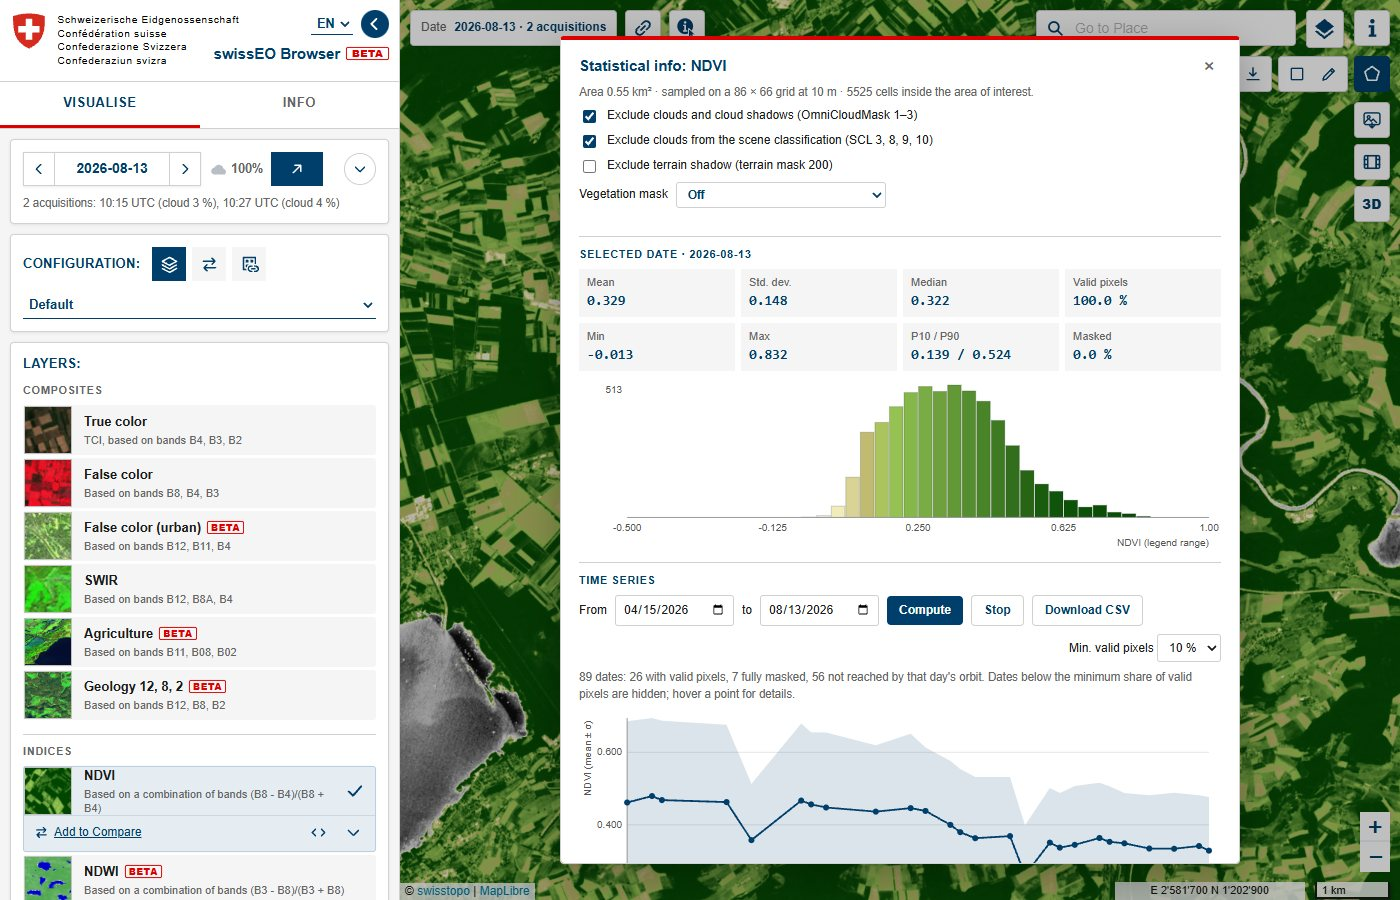
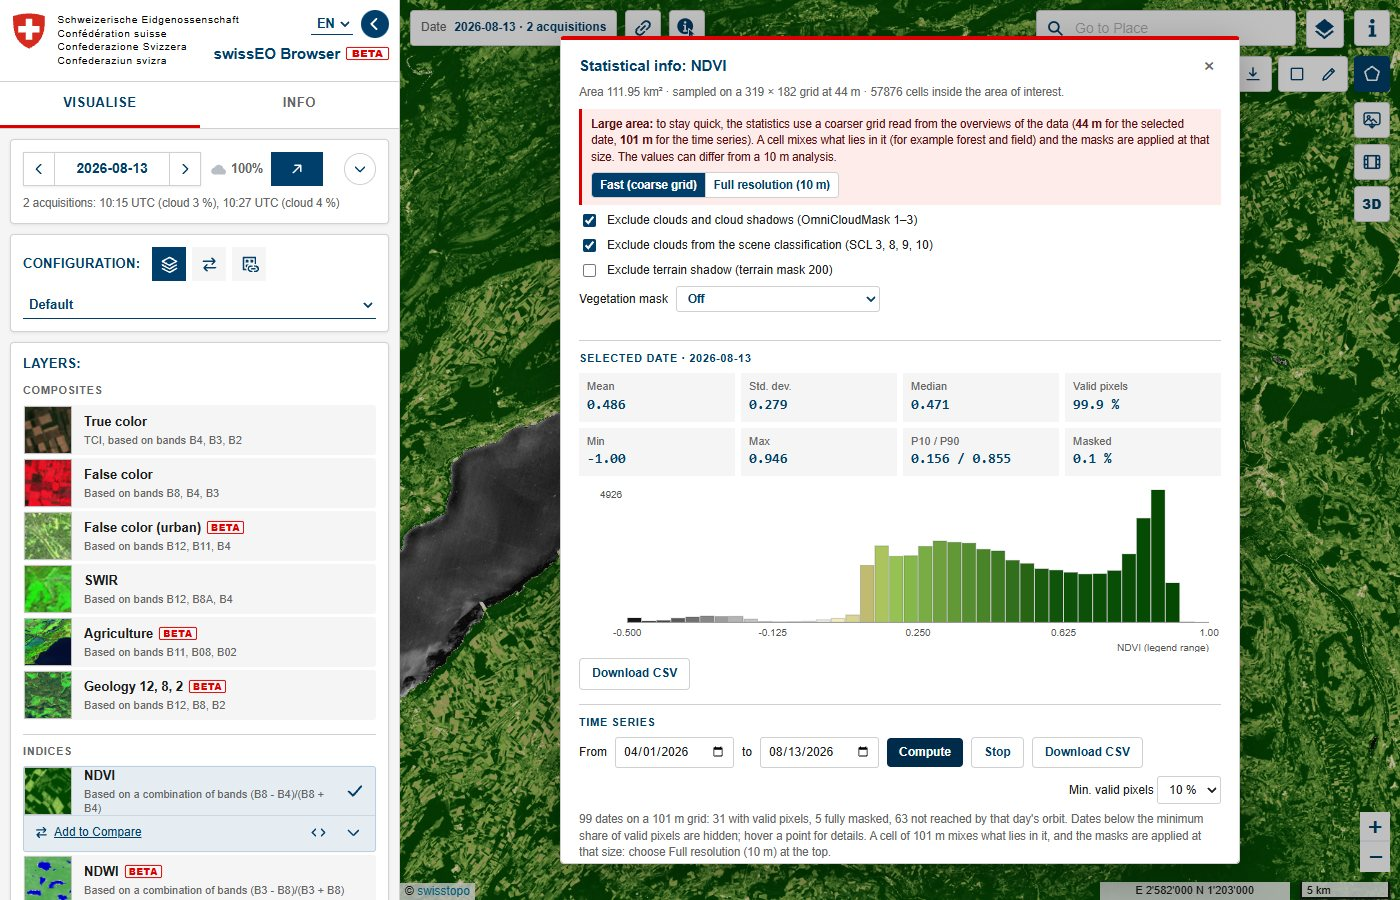
Issue #14: dark TCI edges only dropped where another scene fills them; #9: mask text follows the date; help screenshots
- #14 (option A): dark pixels in the 2 km edge zone of a scene are held back instead of dropped, and put back where
  no other scene of the day has data (beyond the other swath, along the outer limit of the mosaic). The issue's view
  on 2026-11-01 is complete again; where two orbits overlap the result is unchanged (0.00 % of the pixels differ).
- #9: the text under the vegetation mask names the habitat map version of the new date when the date changes.
- Help: screenshots of the statistics (resolution box), sun time (Scene time), Nutzungsflaechen mask (BLW) and
  pixel inspector (parcel use) redrawn, captions updated.

diff --git a/swisseo-browser.html b/swisseo-browser.html
@@ -741,8 +741,8 @@ table.kv td:first-child{color:var(--muted)}
             <p><b>True color (TCI):</b> the JPEG tiles are decoded by the browser itself and kept in a cache, so each COG
               tile is decoded once; the map uses 512 px tiles like the COGs. The TCI's internal mask decides what is data, so
               black pixels stay black. On days with more than one scene (orbit), dark strips along a swath edge (mean RGB below 40
-              within 2 km of the scene edge) always count as no data, as in the swissEO cloud-free mosaics, so the other scene of
-              the day fills them.</p>
+              within 2 km of the scene edge) are replaced by the other scene of the day, as in the swissEO cloud-free mosaics;
+              where no other scene has data they stay.</p>
             <p><b>Spectral layers:</b> the band COGs are read straight from <code>data.geo.admin.ch</code> over HTTP range requests
               (geotiff.js). Only the overview matching the zoom and the tiles in view are fetched.</p>
             <p><b>Masks:</b> <i>Clouds</i> hides cloud-mask codes 1 and 2, <i>Cloud shadows</i> code 3, and <i>Terrain shadow</i>
@@ -3387,21 +3387,24 @@ async function renderScene(rec, s, id, bbox, W, H, signal) {
 
   if (rec.tci) {
     // the delivered TCI; gain / gamma / RGB ranges on top (1 / 1 / [0, 1] = unchanged). The internal mask decides
-    // what is data, so black (0, 0, 0) stays black; dark pixels in the scene's edge zone count as no data.
+    // what is data, so black (0, 0, 0) stays black. Dark pixels in the scene's edge zone are held back in img.held:
+    // renderTile uses them only where no other scene of the day has data (issue #14).
     const ig = 1 / s.gamma, rg = [s.r, s.g, s.b], val = a.valid;
     const ez = s.edge ? await tciEdgeZone(id).catch(() => null) : null;
     const drop = ez ? tciDarkEdges(a, val, ez, bbox, W, H) : null;
+    const held = drop ? new ImageData(W, H) : null;
     for (let k = 0; k < n; k++) {
       if ((val ? !val[k] : a[0][k] === 0 && a[1][k] === 0 && a[2][k] === 0) || masked(k)) continue;
-      if (drop && drop[k]) continue;
+      const o = drop && drop[k] ? held.data : d;
       for (let c = 0; c < 3; c++) {
         let v = clamp(a[c][k] / 255 * s.gain, 0, 1);
         if (ig !== 1) v = Math.pow(v, ig);
         v = clamp((v - rg[c][0]) / ((rg[c][1] - rg[c][0]) || 1e-6), 0, 1);
-        d[k * 4 + c] = 255 * v;
+        o[k * 4 + c] = 255 * v;
       }
-      d[k * 4 + 3] = 255;
+      o[k * 4 + 3] = 255;
     }
+    img.held = held;
     return img;
   }
 
@@ -3688,26 +3691,27 @@ async function renderTile(cfg, bbox, W, H, signal) {
   if (cfg.rec.type === "diff2") return renderDiff2(cfg, bbox, W, H, signal);
   if (cfg.rec.type === "vhiseason") return renderSeason(cfg, bbox, W, H, signal);
   let s = cfg.gf && cfg.gf !== 1 ? Object.assign({}, cfg.s, { gain: cfg.s.gain * cfg.gf }) : cfg.s;
-  // TCI: dark scene edges count as no data when the day has another scene (orbit) that fills them
+  // TCI: dark scene edges are held back when the day has another scene (orbit) that may fill them
   if (cfg.rec.tci) s = Object.assign({}, s, { edge: cfg.scenes.length > 1 });
   // scenes one after the other, most recent first: a scene whose orbit misses the tile (known footprint) is
   // skipped, and once every pixel is filled the remaining scenes are not read at all
   let out = null;
+  const helds = [];
+  const fill = (o, d) => {
+    for (let i = 3; i < o.length; i += 4) if (o[i] === 0 && d[i]) { o[i-3] = d[i-3]; o[i-2] = d[i-2]; o[i-1] = d[i-1]; o[i] = d[i]; }
+  };
   for (const id of cfg.scenes) {
     if (coversNow(id, bbox) === false) continue;
     const im = await renderScene(cfg.rec, s, id, bbox, W, H, signal);
     if (!im) continue;
-    if (!out) out = im;
-    else {
-      const o = out.data, d = im.data;
-      for (let i = 3; i < o.length; i += 4) {
-        if (o[i] === 0 && d[i]) { o[i-3] = d[i-3]; o[i-2] = d[i-2]; o[i-1] = d[i-1]; o[i] = d[i]; }
-      }
-    }
+    if (im.held) helds.push(im.held.data);
+    if (!out) out = im; else fill(out.data, im.data);
     let full = true;
     for (let i = 3; i < out.data.length; i += 4) if (!out.data[i]) { full = false; break; }
     if (full) break;
   }
+  // dark edge pixels that no other scene of the day covers stay (beyond the other swath, or the border of the mosaic)
+  if (out) helds.forEach(h => fill(out.data, h));
   return out;
 }
 
@@ -3858,6 +3862,8 @@ async function applyLayer() {
 
   currentCfg = { rec, s: S(rec), scenes, date: state.date };
   if (terrainOn && sunMode === "scene") apply3D();     // the sun follows the scene shown
+  // the habitat map follows the date: the menu names the version of the new date (issue #9)
+  $$("#layerlist .vegname").forEach(e => { e.textContent = vegOn(S(rec).veg) ? vegName(S(rec).veg) : "Choose one"; });
   updateDateInfo(rec, scenes);
   updateDateGrey();
   showSceneInfo(rec, scenes);
@@ -4430,7 +4436,7 @@ function layerBody(rec) {
   if (rec.source === "s2") {
     const l = el("div", "tog vrow");
     const small = () => vegOn(s.veg) ? vegName(s.veg) : "Choose one";
-    l.innerHTML = "<span>Vegetation mask<small></small></span>";
+    l.innerHTML = '<span>Vegetation mask<small class="vegname"></small></span>';
     l.querySelector("small").textContent = small();
     l.append(vegSelect(s.veg, v => { s.veg = v; l.querySelector("small").textContent = small(); onSettings(rec); }));
     body.append(l);

diff --git a/docs/index.html b/docs/index.html
@@ -255,8 +255,8 @@ footer{font-size:13px;color:var(--muted);border-top:1px solid var(--border);padd
     terrain information, the forest / vegetation mask, the swissTLM3D forest class, the broadleaf share of the
     Waldmischungsgrad LFI and the Nutzungsflächen category. Click the button again to switch it off.</p>
   <figure><img src="img/pixel-inspector.jpg" alt="Pixel inspector showing band and NDVI values" width="1400" height="900">
-    <figcaption><b>Fig. 6</b> The pixel inspector on a field: band values (stored number and reflectance), the NDVI and
-    the masks at this spot.</figcaption></figure>
+    <figcaption><b>Fig. 6</b> The pixel inspector on a field: band values (stored number and reflectance), the NDVI, the
+    masks at this spot and the parcel of the Nutzungsflächen (arable land, peas, code 537).</figcaption></figure>
 
   <h2 id="t7"><span class="n">7</span>Draw an area and get statistics</h2>
   <ol class="steps">
@@ -268,7 +268,9 @@ footer{font-size:13px;color:var(--muted);border-top:1px solid var(--border);padd
   <p>You get the mean, median and other statistics with a histogram for the selected date, and a <b>time series</b>:
     the values of the area over a date range, which you can download as CSV.</p>
   <figure><img src="img/statistics.jpg" alt="Statistics and NDVI time series for a group of fields" width="1400" height="900">
-    <figcaption><b>Fig. 7</b> Statistics and NDVI time series of a group of fields in the Seeland.</figcaption></figure>
+    <figcaption><b>Fig. 7</b> Statistical info of NDVI for 112 km² of the Seeland. The area is large, so the box at the
+    top names the coarser grids (44 m for the selected date, 101 m for the time series) and offers <i>Full resolution
+    (10 m)</i> for both.</figcaption></figure>
 
   <h2 id="t8"><span class="n">8</span>Look at it in 3D</h2>
   <p>The <span class="key">3D</span> button, the last of the tools, lays the map and the satellite layer on the terrain.</p>
@@ -484,8 +486,9 @@ footer{font-size:13px;color:var(--muted);border-top:1px solid var(--border);padd
       horizon).</li>
   </ul>
   <figure><img src="img/sun-time.jpg" alt="The sun time dialog with an evening sun over the Aletsch Glacier" width="1400" height="900">
-    <figcaption><b>Fig. 17</b> Sun time 13 August 2026, 16:45 UTC: the sun stands in the west, 19° above the horizon,
-    and lights the slopes facing it.</figcaption></figure>
+    <figcaption><b>Fig. 17</b> Sun time set with the sliders to 13 August 2026, 16:45 UTC: the sun stands in the west,
+    19° above the horizon, and lights the slopes facing it. <i>Scene time</i> returns to the time of the image
+    (10:22 UTC that day).</figcaption></figure>
   <h3 style="font-size:15px">What works in 3D</h3>
   <ul>
     <li>The <b>Basic</b> image download saves the 3D view as you see it (PNG or JPG, without scale bar, as a tilted view

diff --git a/README.md b/README.md
@@ -366,7 +366,10 @@ The swissEO Browser therefore always uses the physical reflectance.
     [main_cloudfree_mosaic.py](https://github.com/swisstopo/topo-satromo-v2/blob/main/main_functions/main_cloudfree_mosaic.py)
     (edge margin 200 px, brightness 40), pixels within 2 km of the scene's real footprint edge whose mean
     RGB is below 40 count as no data, plus one 10 m pixel around them against the JPEG ringing of the hard
-    transition; the next scene fills them. The footprint comes from the TCI's internal mask at about 160 m;
+    transition; the next scene fills them. Where no other scene of the day has data (beyond the other swath, or along
+    the outer limit of the mosaic beyond the border), the dark pixels stay
+    ([#14](https://github.com/swisstopo/topo-swisseobrowser/issues/14): in November, with a low sun, 40 % of the pixels
+    there are that dark and were left empty). The footprint comes from the TCI's internal mask at about 160 m;
     the edge zone is computed once per scene;
   - masks: clouds and cloud shadows (OmniCloudMask), terrain shadow (terrain mask 200), a vegetation
     mask (pull-down: off, forest or all vegetation of the habitat map swissEO VHI uses on the date, the swissTLM3D forest classes, broadleaf or conifer forest of the Waldmischungsgrad LFI, or
